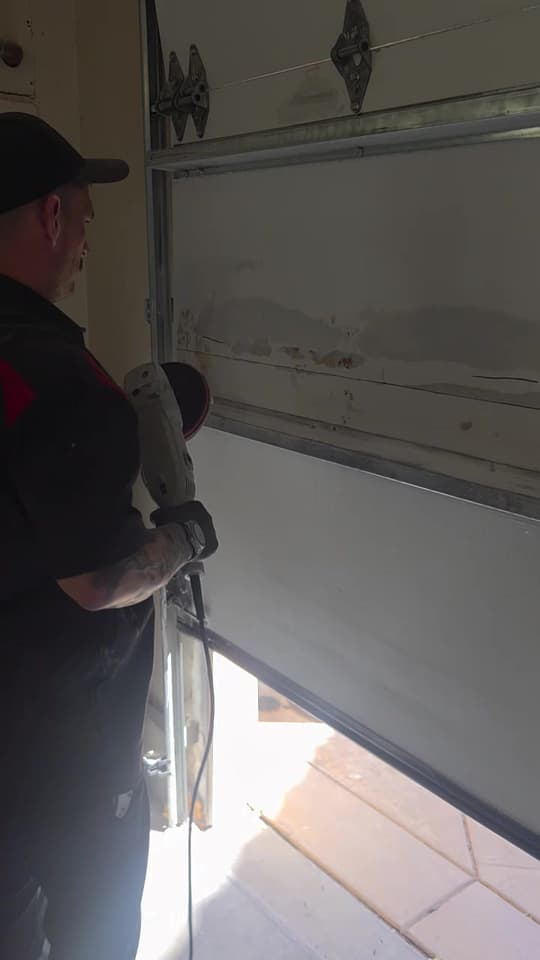
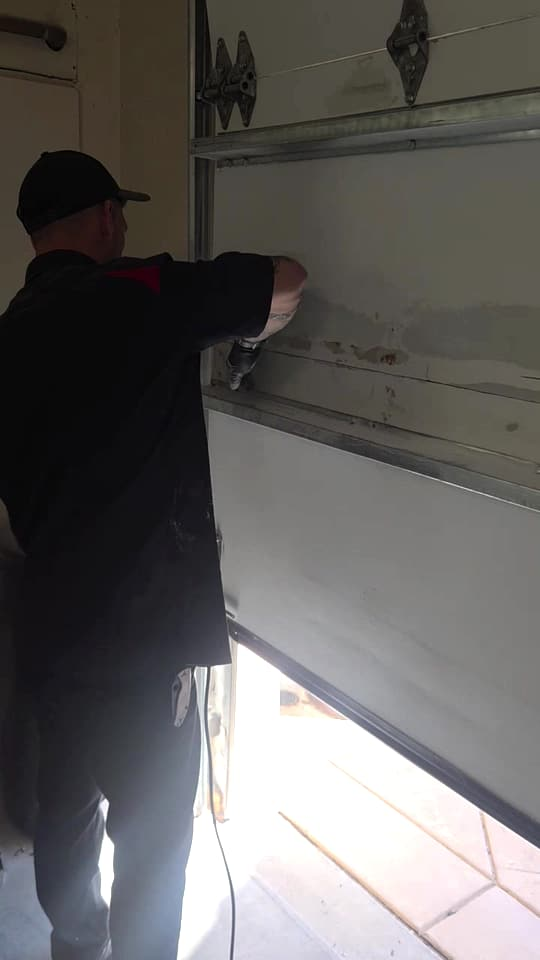
feat: add Pleasanton Carriage Door Restoration service page and update assets

diff --git a/public/index.html b/public/index.html
@@ -676,6 +676,10 @@
         <div class="svc-media"><img loading="lazy" decoding="async" width="940" height="600" src="/assets/lp/service-offtrack.webp" alt="Door off track service - we get it back on track"><span class="svc-badge"><svg viewBox="0 0 24 24" fill="none" stroke="currentColor" stroke-width="2"><circle cx="12" cy="12" r="4"/><path d="M4 6v12M20 6v12"/></svg></span></div>
         <div class="svc-body"><h3>Door Off Track</h3><p>Realigns your door and restores safe, smooth operation.</p><span class="svc-more">Learn More &rarr;</span></div>
       </a>
+      <a class="svc-card" href="/valiant-carriage-door-restorations">
+        <div class="svc-media"><picture><source type="image/webp" srcset="/assets/projects/pleasanton-carriage-door-restoration-card.webp"><img loading="lazy" decoding="async" width="720" height="480" src="/assets/projects/pleasanton-carriage-door-restoration-card.jpg" sizes="(max-width: 760px) 90vw, 380px" alt="Valiant Door technician refinishing a wood carriage house garage door section during a Pleasanton restoration"></picture><span class="svc-badge"><svg viewBox="0 0 24 24" fill="none" stroke="currentColor" stroke-width="2"><path d="M3 21V8l9-5 9 5v13"/><path d="M12 3v18M3 12h18"/></svg></span></div>
+        <div class="svc-body"><h3>Carriage Door Restorations</h3><p>Restores original wood carriage doors instead of replacing them.</p><span class="svc-more">Learn More &rarr;</span></div>
+      </a>
     </div>
     <div class="services-cta"><a class="btn" href="/services">View All Services</a></div>
   </div>

diff --git a/public/valiant-carriage-door-restorations/index.html b/public/valiant-carriage-door-restorations/index.html
@@ -14,7 +14,7 @@ j=d.createElement(s),dl=l!='dataLayer'?'&l='+l:'';j.async=true;j.src=
     <meta name="viewport" content="width=device-width, initial-scale=1">
     <title>Valiant Carriage Door Restorations | Pleasanton, CA</title>
     <meta name="description" content="Carriage door restoration in Pleasanton and the East Bay. We refinish, re-square, and re-balance carriage house garage doors instead of replacing them.">
-    <meta name="keywords" content="garage door opener repair pleasanton, liftmaster opener repair dublin, garage opener replacement livermore">
+    <meta name="keywords" content="carriage door restoration pleasanton, carriage house garage door refinishing, wood garage door restoration east bay">
     <link rel="canonical" href="https://www.valiantdoor.com/valiant-carriage-door-restorations">
     <link rel="alternate" type="text/plain" href="/llms.txt" title="LLM summary for Valiant Garage Door">
     <link rel="alternate" type="text/plain" href="/llms-full.txt" title="Detailed LLM summary for Valiant Garage Door">
